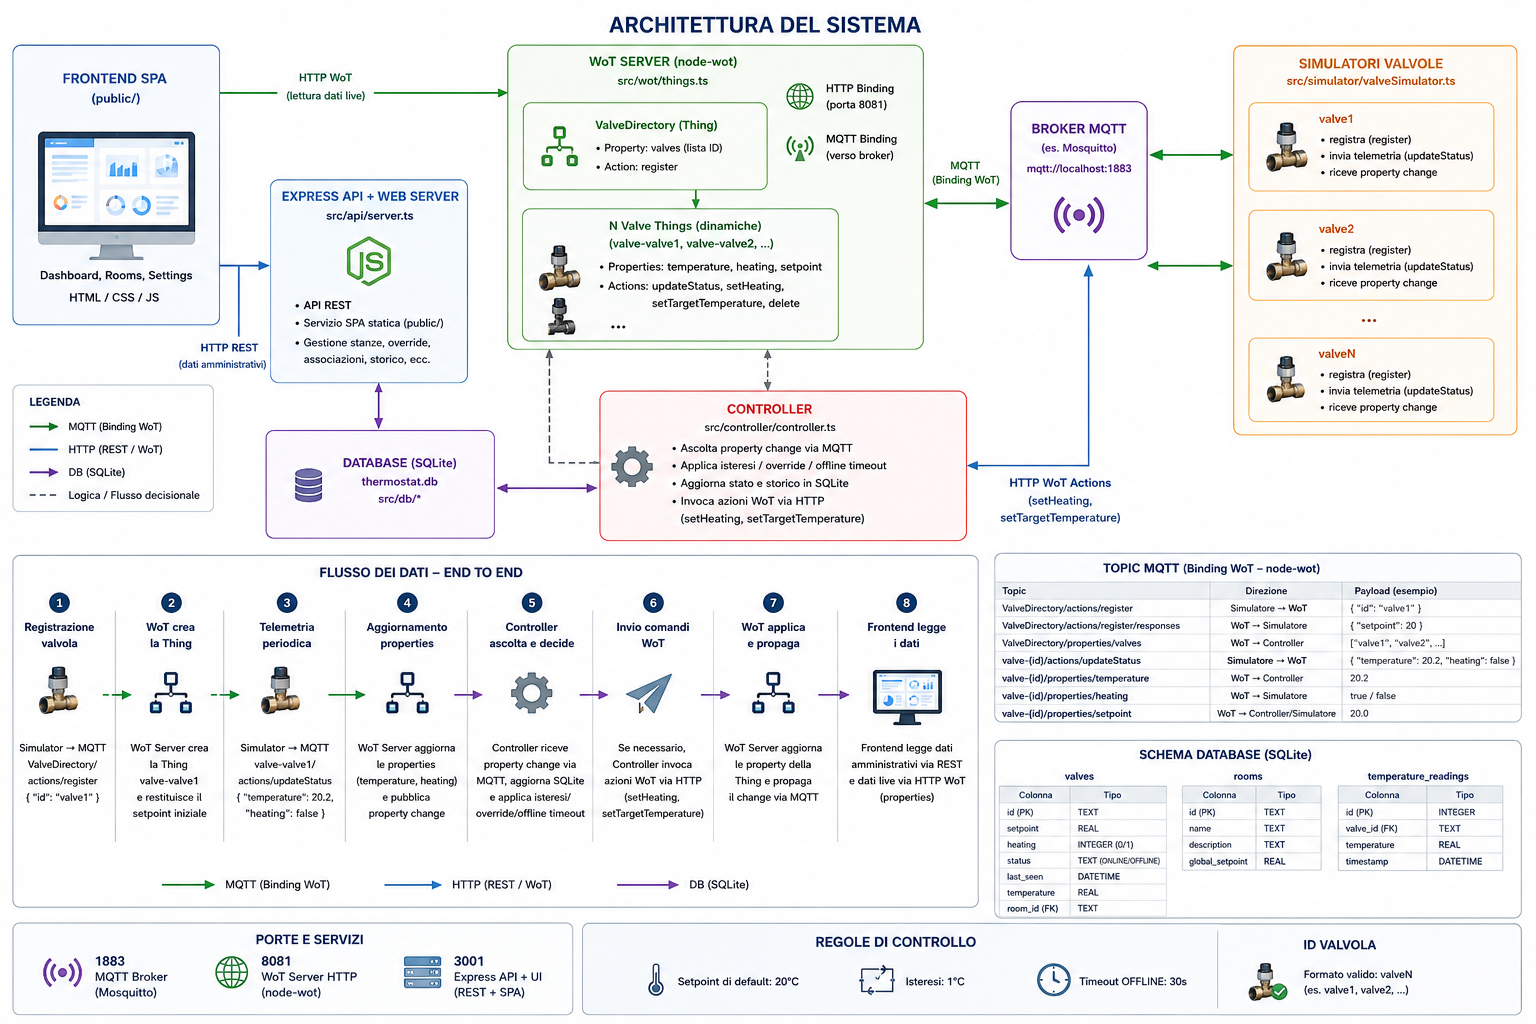
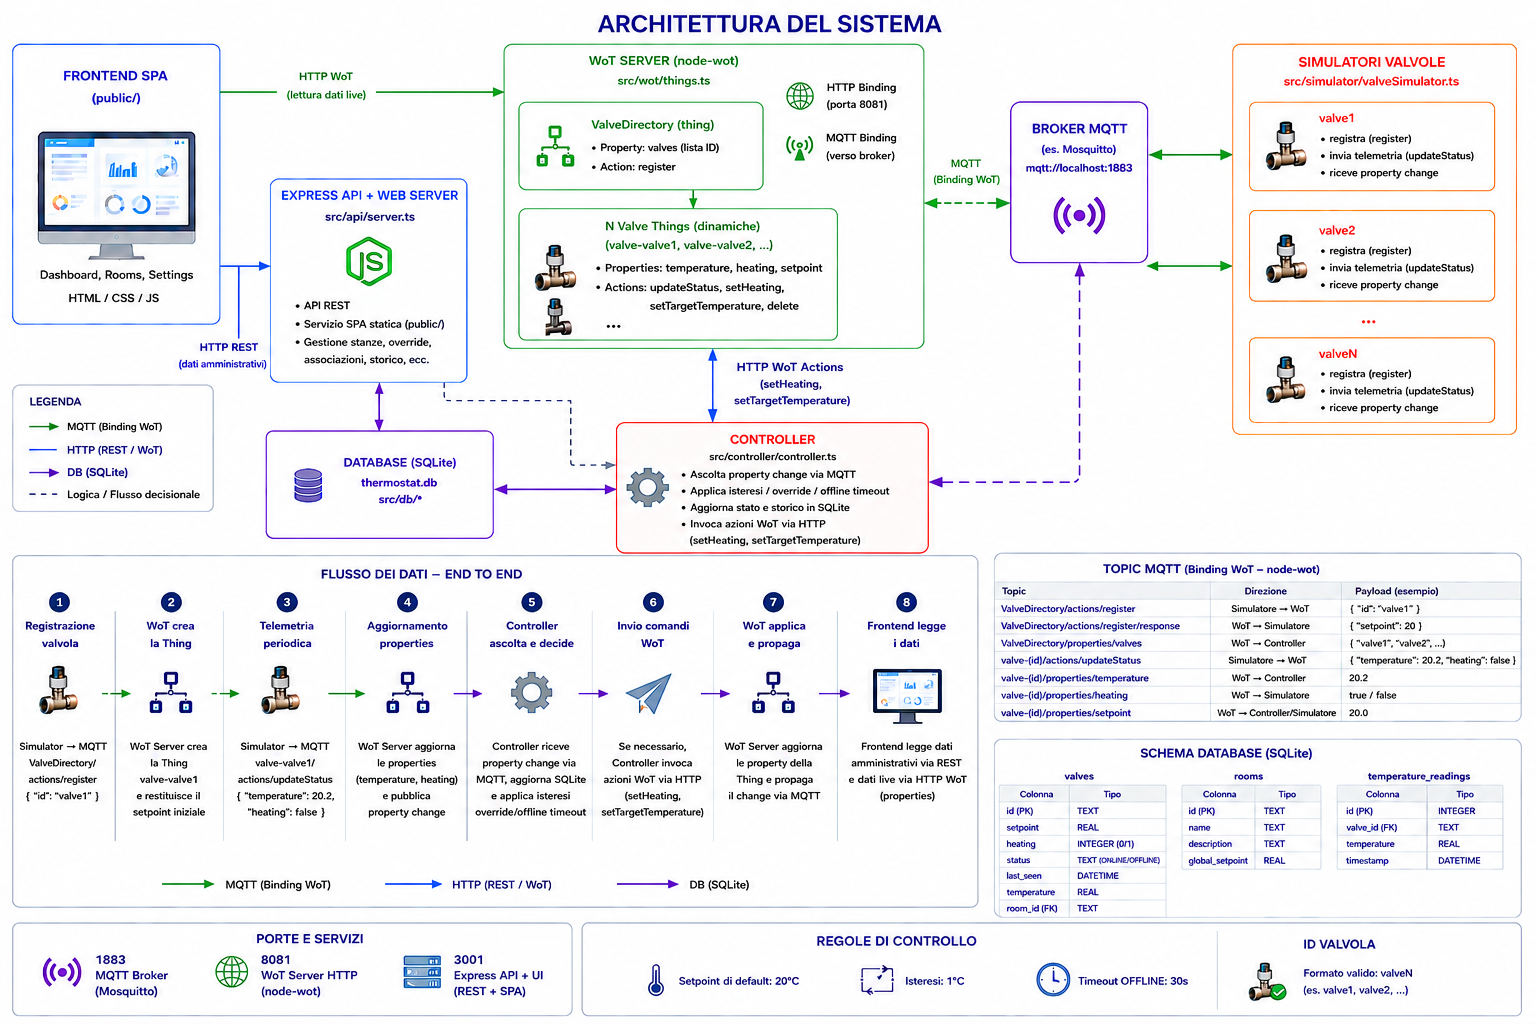
fix: remove POST /setpoint endpoint and update README accordingly

diff --git a/src/api/server.ts b/src/api/server.ts
@@ -50,6 +50,7 @@ app.get("/valves/:id/history", (req, res) => {
 });
 
 
+
 // DELETE /valves/:id → Elimina definitivamente la valvola da tutto il sistema
 app.delete("/valves/:id", async (req, res) => {
   const valveId = req.params.id;

diff --git a/README.md b/README.md
@@ -216,18 +216,9 @@ http://localhost:3001
 | --- | --- | --- |
 | `GET` | `/valves` | Lista valvole presenti nel DB |
 | `GET` | `/valves/:id/history` | Ultime 50 letture di temperatura |
-| `POST` | `/setpoint` | Aggiorna il setpoint di una valvola nel DB e nel controller |
 | `PUT` | `/valves/:valveId/room` | Assegna o scollega una valvola da una stanza |
 | `DELETE` | `/valves/:id` | Rimuove valvola da WoT, DB e controller |
 
-Body per `POST /setpoint`:
-
-```json
-{
-  "valveId": "valve1",
-  "setpoint": 21.5
-}
-```
 
 Body per `PUT /valves/:valveId/room`:
 